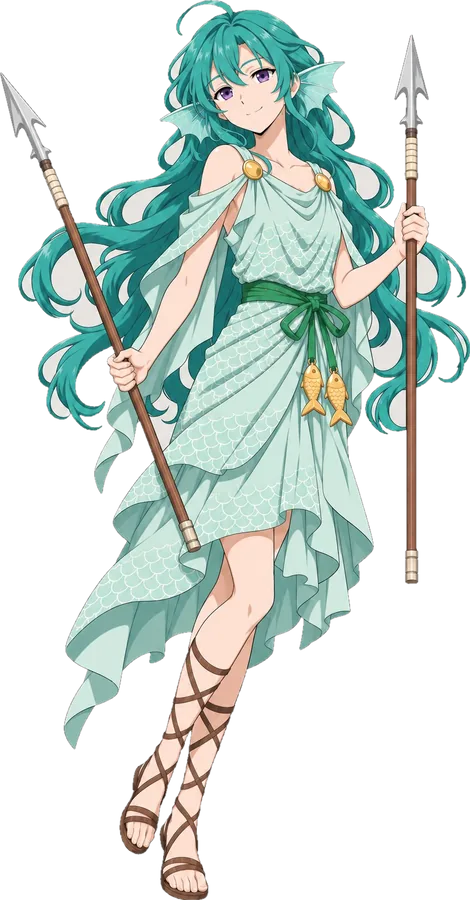
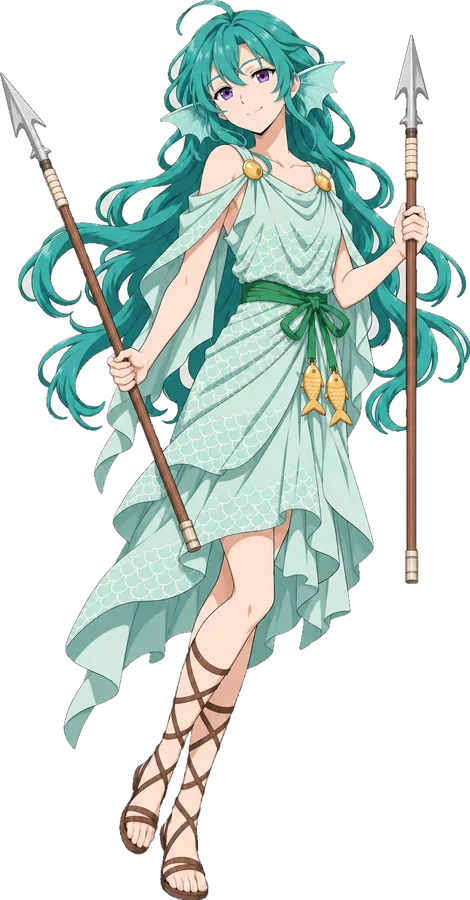
仮の立ち絵の切り抜きを直し、背景の部品のプロンプトを足す
Claude-Session: https://claude.ai/code/session_016fk9NvoXWiMDchST95bpzh

diff --git a/src/data/heroArt.ts b/src/data/heroArt.ts
@@ -48,12 +48,12 @@ export const HERO_ART: Record<HeroId, HeroArt> = {
   aries: art('aries', 472, 0.01, 0.445),
   taurus: art('taurus', 469, 0.049, 0.571),
   gemini: art('gemini', 578, 0.008, 0.469),
-  cancer: art('cancer', 556, 0.011, 0.482),
+  cancer: art('cancer', 556, 0.011, 0.497),
   leo: art('leo', 542, 0.009, 0.569),
   virgo: art('virgo', 368, 0.02, 0.589),
   libra: art('libra', 264, 0.003, 0.515),
-  scorpio: art('scorpio', 500, 0.007, 0.413, 0.9),
-  sagittarius: art('sagittarius', 547, 0.033, 0.568),
+  scorpio: art('scorpio', 500, 0.007, 0.415, 0.9),
+  sagittarius: art('sagittarius', 547, 0.033, 0.562),
   capricorn: art('capricorn', 385, 0.034, 0.388),
   aquarius: art('aquarius', 389, 0.002, 0.586),
   pisces: art('pisces', 470, 0.009, 0.549),

diff --git a/docs/art-prompts.md b/docs/art-prompts.md
@@ -277,6 +277,69 @@
 
 ---
 
+## 背景の部品（2026-11-03。仕様書 18.3 の「背景」）
+
+アプリに組み込む背景画像を作るためのプロンプト。上の UI デザイン案とは違い、ボタン・枠・人物は描かず、空と雲だけを描く。**次の3つを1つにまとめたものを、画面ごとにそのまま貼る**（ユーザーへはまとめた形で渡す）。目標画像 `docs/ui-reference/10-target-home.jpg` を添付する。
+
+- 出力は縦長（1024×1536）。画面の縦横比（約 9:19.5）より短いので、上下の端に空を足して伸ばす（上下の2割は空と雲が続くだけにしてもらう）。iPad では左右を少し切る。
+- 仕上がった画像は 1320×2868px（iPhone）に整えて組み込む。
+
+```text
+【共通：背景だけを描く】
+スマートフォン縦画面のファンタジーRPG「アストラクロニクル」の、画面の背景画像を1枚描いてください。この背景の上に、ボタン・パネル・キャラクターなどをアプリ側で重ねます。
+添付の画像は目指す見た目の画面です。夜空の色・雲の質感・空気感だけを参考にし、画像の中のボタン・枠・ロゴ・アイコン・人物・星座の絵は描かないでください。
+- 背景だけを描く。ボタン・枠・パネル・帯・アイコン・文字・ロゴ・数字は描かない。人物・動物・魔獣・星座の絵（人や動物の形の線画）も描かない。
+- 城・神殿・塔・遺跡・家・柱・アーチ・宙に浮いた島などの建物、山・木・地面は描かない。空と雲だけで作る。
+- 縦長の、正面から見た平らな1枚の絵。額縁・スマートフォンの枠・余白は入れない。
+- 上の端と下の端の約2割は、空と雲が同じように続くだけにする（あとで上下に空を足して縦長の画面に合わせるため）。
+- 見どころは中央に寄せ、左右の端を少し切っても成り立つようにする（iPad で使うため）。
+- 色：夜空 #0D1638（上）→ #1E2A54（下）、雲 #273569 → #43518A。金 #D49B59〜#F1C073（いちばん明るい所 #FCE5A7）はごく少しだけ。
+```
+
+画像生成らしさを抑える指定（背景用）：
+
+```text
+【仕上げの指定（画像生成らしさを避ける）】
+- 色：指定した色コードとその明暗だけを使う。全体に黄色や茶色のフィルターをかけない。
+- 雲：紙を何枚か重ねて切り抜いたような、輪郭のなだらかな平たい雲の層（2〜3層）。綿のような写真風の雲、もや、煙にしない。
+- 星：小さな点の星を控えめに散らす。十字に光る星は画面全体で5個以下。光の粒・キラキラ・流れ星・光の筋・レンズフレア・ぼけ玉は入れない。
+- 光：全体にやわらかく暗め。強く光る所を作らない（上に重ねるボタンとオーブを目立たせるため）。
+- 質感：つや消し。ほんのわずかな紙の粒子感はよい。3DCG・写真・油絵のような質感にしない。
+- 飾り：金の細い線を使うなら、ゆるやかな円弧を1〜2本だけ。唐草や装飾の模様は入れない。
+- 構図：左右対称の豪華な構図や、ポスターのような劇的な演出にしない。毎日見ても疲れない、静かな背景。
+```
+
+画面ごと（1つ選ぶ）：
+
+```text
+【画面：ホーム】
+- 画面の中ほど（上から35〜65%）に仲間3人が立つので、その後ろだけ紺の夜空がほんのり明るくなる程度に（#2A3870 くらい）。光の柱や後光にはしない。
+- 上のほうは、雲の切れ間から見える広い夜空。
+- 下の4割はボタンやバナーが重なるので、雲の層を低く静かに。
+```
+
+```text
+【画面：バトル】
+- ホームより暗く静かに。パズルの盤面（画面の中央、上から30〜75%）が主役なので、その範囲は模様の少ない、むらのない暗い紺（#111A42 くらい）にし、雲や星を置かない。
+- 上の2割（敵が出る所）は、ほんの少し紫がかった暗い空（#2A2050 くらい）。不気味すぎない。
+- 下の2割に、低く暗い雲の層。
+```
+
+```text
+【画面：クエスト選択（章の地図の背景）】
+- 夜空の下に広がる雲の海を、少し高い所から見下ろした眺め。雲の海は画面の下6割に、奥へ行くほど小さく重なる。
+- ステージの点と道はアプリで描くので、道・点・橋・島は描かない。雲の海の上面は平らで落ち着いた明るさに。
+- 上の4割は広い夜空。雲の海の向こうの水平線の近くだけ、夜明け前のようにかすかに明るく（#3A3A6A〜#6A5A70 くらい）。
+```
+
+```text
+【画面：リザルト（勝利）】
+- ホームより少し明るく。画面の上から2〜4割の中央に、雲の切れ間からさすやわらかい金色の明るさ（#F1C073 をごく薄く）。光の柱や放射状の光線にはしない。
+- 中央から下は記録のパネルが重なるので、静かな紺の夜空と低い雲。
+```
+
+---
+
 ## iPad 用（必要なら）
 
 ```text

diff --git a/docs/decisions.md b/docs/decisions.md
@@ -2,6 +2,12 @@
 
 仕様（`docs/game-spec.md`）を変えたときや、仕様に書かれていないことを決めたときに、新しいものを上に足す。
 
+## 2026-11-03 仮の立ち絵の切り抜きを直す・背景のプロンプト
+
+- **ユーザーの指摘**：仮の立ち絵に白い部分が残っていた。外側の背景だけを抜いていたため、弓の内側・髪のすきま・腕と体の間など、人物に囲まれた背景が残っていた。背景の色にごく近い平らな所も抜き、ふちの背景色を取り除くように切り抜き直した（白い衣は残る）
+- 仕上げの絵は、画像生成で「背景は透明（透過PNG）」と頼む（`docs/character-prompts.md`）
+- 背景の部品（仕様書 18.3）を作るプロンプトを `docs/art-prompts.md` に足した。画像生成は縦長 1024×1536 までなので、上下の2割は空が続くだけにしてもらい、こちらで上下に空を足して画面の縦横比に合わせる
+
 ## 2026-11-03 ホームを目指す見た目に近づける（仕様書 1.10.0）
 
 - **ユーザーの判断**：キャラの見た目が決まったので、仕上げの絵より先にホームを作り込む（どの部品が何枚・どの大きさで要るかを画面で決めてから仕上げの絵を作るため）

diff --git a/docs/character-prompts.md b/docs/character-prompts.md
@@ -10,6 +10,8 @@
 4. 気になる所は下の **直すときの追い指示** をそのまま送る。
 5. 1人ずつ決まったら、3人並びのプロンプトで並べたときの釣り合いを見る。
 
+6. **仕上げの絵（アプリに組み込む部品）**を出すときは、背景を灰色ではなく「背景は透明（透過PNG）」と頼む。灰色の背景から切り抜くと、髪のすきまや弓の内側などに背景の色が残りやすい（2026-11-03、確認用の絵を仮の立ち絵にしたときに起きた）。透明にできなかったときは灰色のままでよい（こちらで切り抜く）。
+
 ---
 
 ## 共通の前提（毎回貼る）
